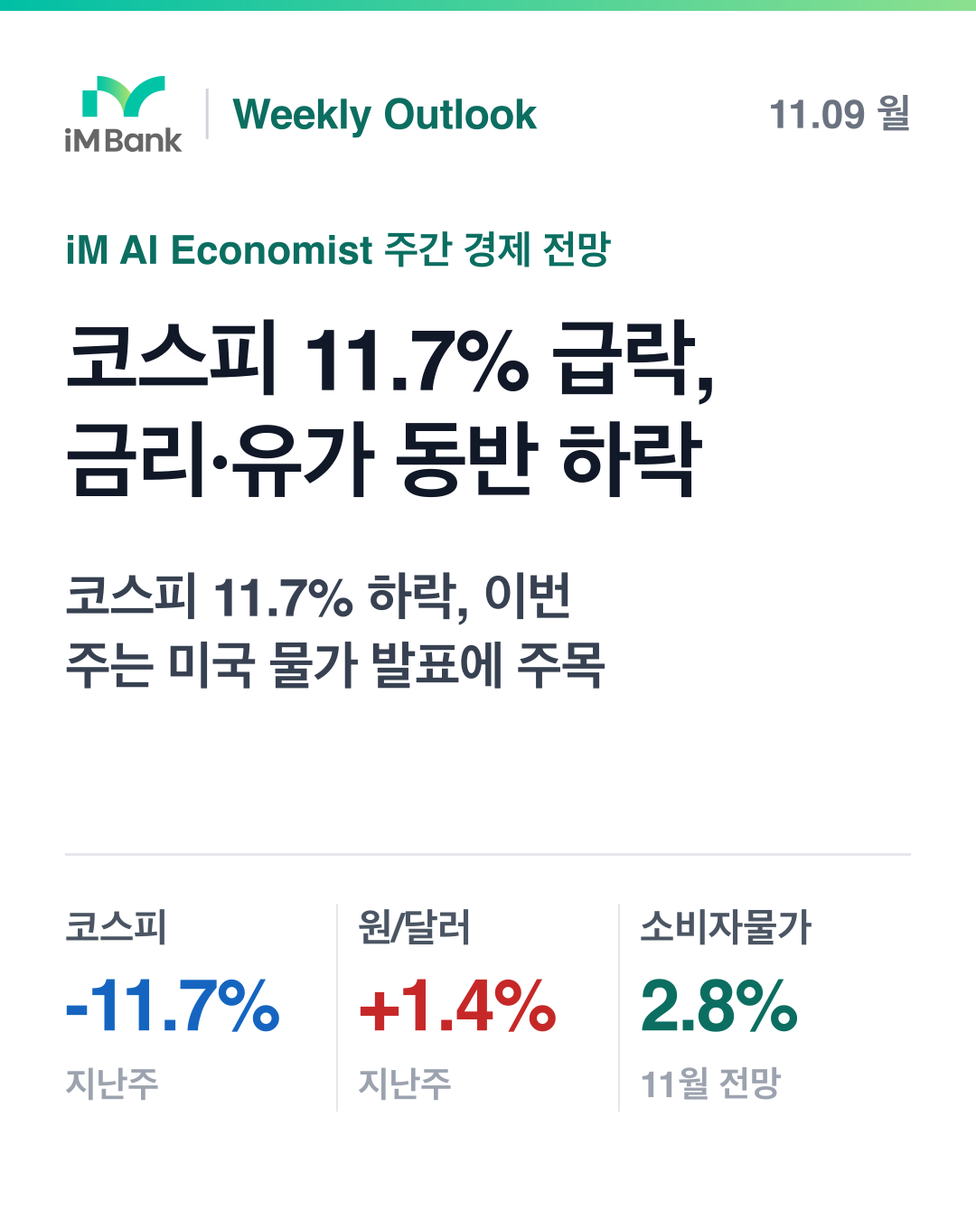
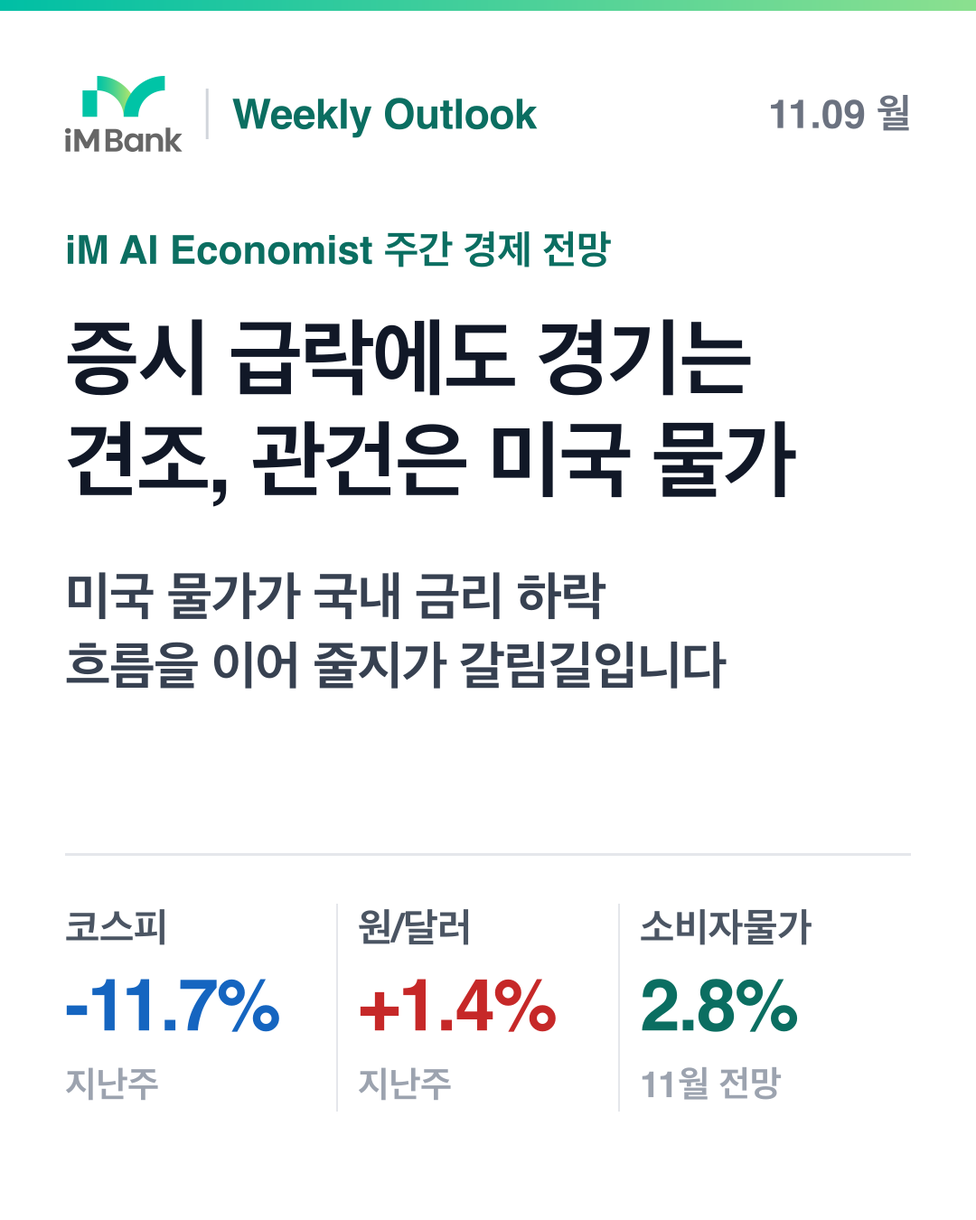
preview: 주간 전망 드라이런 갱신(제목 규칙 변경)
Claude-Session: https://claude.ai/code/session_01VBBXT8zS9TT6j7sAH1a9k2

Changed region(s): [[0.0611, 0.2489, 0.825, 0.4044], [0.0611, 0.4667, 0.7639, 0.5911]]

diff --git a/public/weekly-reports/2026-11-09.html b/public/weekly-reports/2026-11-09.html
@@ -3,17 +3,17 @@
 <head>
 <meta charset="UTF-8">
 <meta name="viewport" content="width=device-width, initial-scale=1.0">
-<title>코스피 11.7% 급락, 금리·유가 동반 하락 - iM AI Economist Weekly</title>
-<meta property="og:title" content="코스피 11.7% 급락, 금리·유가 동반 하락">
-<meta property="og:description" content="11월 2일(월)~11월 6일(금) 국내 주가가 10% 넘게 내리는 동안 국고채 금리와 유가는 내리고 원/달러 환율과 금값은 올랐습니다. 11월 10일(화) 미국 소비자물가와 11월 11일(수) 국내 고용동향이 금리와 환율의 방향을 가늠할 주요 일정입니다.">
+<title>증시 급락에도 경기는 견조, 관건은 미국 물가 - iM AI Economist Weekly</title>
+<meta property="og:title" content="증시 급락에도 경기는 견조, 관건은 미국 물가">
+<meta property="og:description" content="국내 증시가 크게 내린 사이 국내외 금리와 유가는 하락하고 금과 원/달러 환율은 올랐습니다. 11월 10일(화) 미국 소비자물가와 11월 11일(수) 국내 고용동향이 금리와 경기 판단의 핵심 확인 지점입니다.">
 <meta property="og:site_name" content="iM뱅크">
 <meta property="og:type" content="article">
 <meta property="og:image" content="https://dailyreport-eta.vercel.app/weekly-reports/2026-11-09-preview.png">
 <meta property="og:image:width" content="1080">
 <meta property="og:image:height" content="1350">
 <meta name="twitter:card" content="summary_large_image">
-<meta name="twitter:title" content="코스피 11.7% 급락, 금리·유가 동반 하락">
-<meta name="twitter:description" content="11월 2일(월)~11월 6일(금) 국내 주가가 10% 넘게 내리는 동안 국고채 금리와 유가는 내리고 원/달러 환율과 금값은 올랐습니다. 11월 10일(화) 미국 소비자물가와 11월 11일(수) 국내 고용동향이 금리와 환율의 방향을 가늠할 주요 일정입니다.">
+<meta name="twitter:title" content="증시 급락에도 경기는 견조, 관건은 미국 물가">
+<meta name="twitter:description" content="국내 증시가 크게 내린 사이 국내외 금리와 유가는 하락하고 금과 원/달러 환율은 올랐습니다. 11월 10일(화) 미국 소비자물가와 11월 11일(수) 국내 고용동향이 금리와 경기 판단의 핵심 확인 지점입니다.">
 <meta name="twitter:image" content="https://dailyreport-eta.vercel.app/weekly-reports/2026-11-09-preview.png">
 <style>
 /* iM AI Market Report — Standardized Template CSS */
@@ -552,15 +552,15 @@
     </header>
 
     <section class="title-block" data-section="title">
-        <h1 class="cover-headline">코스피 11.7% 급락, 금리·유가 동반 하락</h1>
-        <p class="cover-subline">지난주 코스피와 코스닥이 각각 11.7%, 11.1% 내렸습니다. 같은 기간 국고채 금리와 브렌트유도 크게 내렸고, 원/달러 환율과 금값은 올랐습니다.</p>
+        <h1 class="cover-headline">증시 급락에도 경기는 견조, 관건은 미국 물가</h1>
+        <p class="cover-subline">지난주 코스피가 11.7% 내렸지만 2026년 3분기 실질 GDP 성장률은 1.0%, 2026년 9월 산업생산 증가율은 5.0%로 실물 지표는 탄탄했습니다. 국내 금리와 유가가 함께 내려간 가운데, 이번 주 미국 소비자물가가 이 흐름을 이어 갈지 가를 변수입니다.</p>
     </section>
 
     <section class="summary-box" data-section="summary" aria-label="세 줄 요약">
         <ul class="summary-list">
-            <li class="summary-row"><span class="summary-label">지난주</span><span class="summary-text">11월 2일(월)~11월 6일(금) 국내 주가가 10% 넘게 내리는 동안 국고채 금리와 유가는 내리고 원/달러 환율과 금값은 올랐습니다.</span></li>
-            <li class="summary-row"><span class="summary-label">이번 주</span><span class="summary-text">11월 10일(화) 미국 소비자물가와 11월 11일(수) 국내 고용동향이 금리와 환율의 방향을 가늠할 주요 일정입니다.</span></li>
-            <li class="summary-row"><span class="summary-label">전망</span><span class="summary-text">모형 전망으로는 국내 소비자물가 상승률이 2026년 11월에 중앙값 2.8%(68% 구간 2.4~3.2%)로, 지금과 비슷한 수준이 이어질 것으로 보입니다.</span></li>
+            <li class="summary-row"><span class="summary-label">지난주</span><span class="summary-text">국내 증시가 크게 내린 사이 국내외 금리와 유가는 하락하고 금과 원/달러 환율은 올랐습니다.</span></li>
+            <li class="summary-row"><span class="summary-label">이번 주</span><span class="summary-text">11월 10일(화) 미국 소비자물가와 11월 11일(수) 국내 고용동향이 금리와 경기 판단의 핵심 확인 지점입니다.</span></li>
+            <li class="summary-row"><span class="summary-label">전망</span><span class="summary-text">iM뱅크 모형 전망으로 국내 소비자물가 상승률은 2026년 11월 중앙값 2.8%(68% 구간 2.4~3.2%)로 지금 수준 부근에 머물 것으로 보입니다.</span></li>
         </ul>
     </section>
 
@@ -625,10 +625,10 @@
         </div>
         <p class="wk-note">종가 기준, 직전 주 마지막 거래일 대비. 금리는 bp(0.01%p) 단위 변화입니다.</p>
         <div class="narrative">
-                <p>지난주 국내 주식시장은 크게 내렸습니다. 코스피는 11.7% 하락한 5,059.69, 코스닥은 11.1% 하락한 644.27로 한 주를 마쳤습니다. 미국 시장도 내렸지만 폭은 작았습니다. S&amp;P 500은 2.7% 내린 7,376.86, 나스닥은 3.4% 내린 24,579.43이었습니다. 국내 주가의 낙폭이 미국보다 훨씬 컸다는 점이 이번 주의 특징입니다.</p>
-                <p>주가가 내리는 동안 채권 금리도 함께 내렸습니다. 국고채 3년 금리는 10bp 내린 3.61%, 국고채 10년 금리는 15bp 내린 3.85%였습니다. bp(베이시스포인트)는 금리 변화를 재는 단위로, 1bp는 0.01%p입니다. 미국 국채 10년 금리도 7bp 내린 4.86%였습니다. 같은 기간 금값은 4.5% 오른 4,074.9달러였습니다. 주가가 내리고 국채 금리가 내리며 금값이 오르는 조합은, 시장이 위험을 줄이는 쪽으로 움직일 때 흔히 나타나는 모습과 닮았습니다.</p>
-                <p>원자재와 환율은 엇갈렸습니다. 브렌트유는 16.4% 내린 98.32달러로 큰 폭 하락했습니다. 반면 원/달러 환율은 1.4% 오른 1,356.3원, 달러인덱스(주요 통화 대비 달러 가치)는 0.4% 오른 102.30이었습니다. 달러 강세보다 원화 약세 폭이 더 컸습니다. 유가 하락은 물가 부담을 덜어 주는 방향이지만, 원화 약세는 수입 가격을 높이는 방향이어서 두 흐름이 서로 일부를 상쇄하는 구도입니다.</p>
-                <p>최근 발표된 지표를 보면 국내 경기는 생산과 수출 쪽에서 힘이 붙었습니다. 2026년 3분기 실질 GDP 성장률(전기비)은 1.0%로 2분기 0.6%보다 높았고, 2026년 9월 산업생산 증가율은 5.0%로 8월 3.1%에서 올라갔습니다. 2026년 10월 수출금액지수 증가율은 107.6%였습니다. 다만 앞으로의 경기를 미리 보여 주는 선행지수 순환변동치는 2026년 9월 104.1로 8월 104.2에서 소폭 내렸습니다. 물가는 2026년 10월 소비자물가 상승률(전년동월비, 1년 전 같은 달과 비교한 변화율)이 2.8%로 9월 2.9%보다 낮아졌습니다. 한국은행 기준금리는 3.00%로 그대로였습니다. 반면 미국은 2026년 10월 소비자물가 상승률이 3.9%로 9월 3.7%보다 높아졌고, 정책금리(실효, 월평균)도 3.88%로 9월 3.75%보다 올랐습니다.</p>
+                <p>지난주(11월 2일(월)~11월 6일(금)) 국내 증시는 큰 폭으로 내렸습니다. 코스피는 11.7% 하락한 5,059.69, 코스닥은 11.1% 하락한 644.27로 마감했습니다. 미국도 S&amp;P 500이 2.7%, 나스닥이 3.4% 내렸지만, 하락 폭은 국내가 훨씬 컸습니다.</p>
+                <p>주식이 약할 때 채권과 금은 반대로 움직였습니다. 국고채 3년 금리는 10bp(1bp는 0.01%p) 내린 3.61%, 국고채 10년 금리는 15bp 내린 3.85%였습니다. 미국 국채 10년 금리도 7bp 내린 4.86%였고, 금값은 4.5% 올라 4,074.9달러가 됐습니다. 위험자산에서 안전자산 쪽으로 가격이 함께 움직인 모습입니다.</p>
+                <p>환율과 유가도 크게 움직였습니다. 원/달러 환율은 1.4% 올라 1,356.3원이 됐습니다. 같은 기간 달러인덱스(주요 통화 대비 달러 가치)는 0.4% 오른 102.30으로, 달러 강세보다 원화 약세가 더 두드러졌습니다. 브렌트유는 16.4% 내린 98.32달러였습니다. 유가와 금리가 함께 내려간 조합은 물가 부담이 줄어드는 방향과 맞아떨어집니다.</p>
+                <p>실물 지표는 시장과 달리 견조했습니다. 2026년 3분기 실질 GDP 성장률은 1.0%로 2026년 2분기 0.6%보다 높았고, 2026년 9월 산업생산 증가율(전년동월비, 1년 전 같은 달과 비교한 변화율)은 5.0%로 8월 3.1%에서 올랐습니다. 2026년 10월 수출금액지수 증가율은 107.6%로 9월 89.4%보다 높았습니다. 다만 경기 방향을 앞서 보여 주는 선행지수 순환변동치는 104.1로 직전 104.2에서 소폭 낮아졌습니다. 국내 소비자물가 상승률은 2026년 10월 2.8%로 9월 2.9%보다 낮아졌고, 한국은행 기준금리는 3.00%로 유지됐습니다. 반면 미국 소비자물가 상승률은 2026년 10월 3.9%로 9월 3.7%보다 높아졌고, 미국 정책금리(실효, 월평균)도 3.88%로 9월 3.75%에서 올라 한미 간 물가 흐름이 엇갈렸습니다.</p>
         </div>
     </section>
 
@@ -669,23 +669,23 @@
         <h2 class="section-title">이번 주 볼 것 (11월 9일(월)~11월 13일(금))</h2>
             <div class="watch-card">
                 <div class="watch-badge">11월 10일(화) 22:30</div>
-                <div class="watch-title">미국 소비자물가(CPI)</div>
-                <div class="watch-desc">한국시간 22:30 발표입니다. 최근 확인된 미국 물가 상승률은 2026년 10월 3.9%로 9월 3.7%보다 높아졌는데, 이번 발표가 이 오름세를 이어가는지에 따라 지난주 내린 미국과 한국의 금리 흐름이 달라질 수 있습니다.</div>
+                <div class="watch-title">미국 소비자물가(CPI) 22:30</div>
+                <div class="watch-desc">최근 확인된 미국 소비자물가 상승률은 2026년 10월 3.9%로 9월 3.7%보다 높아졌습니다. 이번 발표에서 상승 흐름이 이어지는지에 따라 지난주 내려간 미국 국채 10년 금리(4.86%)의 방향이 달라질 수 있어 확인해 볼 만합니다.</div>
             </div>
             <div class="watch-card">
                 <div class="watch-badge">11월 11일(수) 08:00</div>
-                <div class="watch-title">국내 고용동향(2026년 10월)</div>
-                <div class="watch-desc">한국시간 08:00 발표입니다. 생산과 GDP 지표는 개선됐지만 선행지수는 소폭 내렸는데, 고용이 어느 쪽 흐름에 가까운지 확인해 볼 만합니다.</div>
+                <div class="watch-title">국내 고용동향(10월) 08:00</div>
+                <div class="watch-desc">3분기 성장률과 9월 산업생산이 개선된 만큼, 생산·수출의 회복이 일자리로 이어지고 있는지 볼 지점입니다. 고용이 함께 받쳐 준다면 실물 경기가 견조하다는 판단에 힘이 실립니다.</div>
             </div>
             <div class="watch-card">
                 <div class="watch-badge">11월 13일(금) 06:00</div>
-                <div class="watch-title">국내 수출입물가지수(2026년 10월)</div>
-                <div class="watch-desc">한국시간 06:00 발표입니다. 수입물가는 소비자물가에 앞서 움직이는 경향이 있어, 유가 하락과 원화 약세 가운데 어느 쪽이 더 크게 반영됐는지 살펴볼 수 있습니다.</div>
+                <div class="watch-title">수출입물가지수(10월) 06:00</div>
+                <div class="watch-desc">수입물가는 소비자물가에 앞서 움직이는 경향이 있어 2026년 10월 소비자물가 2.8%의 흐름과 맞춰 볼 만합니다. 지난주 브렌트유 하락은 시점상 이번 10월 지표보다 이후 지표에서 확인될 가능성이 큽니다.</div>
             </div>
             <div class="watch-card">
                 <div class="watch-badge">11월 13일(금) 06:00</div>
-                <div class="watch-title">미국 생산자물가(PPI)</div>
-                <div class="watch-desc">한국시간 22:30 발표입니다. 기업이 받는 가격 흐름을 보여 주는 지표로, 11월 10일(화) 소비자물가와 같은 방향인지 함께 비교해 보면 미국 물가의 흐름을 더 분명히 읽을 수 있습니다.</div>
+                <div class="watch-title">미국 생산자물가(PPI) 22:30</div>
+                <div class="watch-desc">기업 단계의 물가로, 화요일 소비자물가와 같은 방향인지 비교해 볼 만합니다. 두 지표가 함께 높게 나오면 미국 물가 부담에 대한 판단이 더 분명해집니다.</div>
             </div>
     </section>
     <details class="more" data-section="calendar">
@@ -708,7 +708,7 @@
     <section class="section" data-section="outlook">
         <h2 class="section-title">AI Economist 전망</h2>
         <div class="narrative">
-            <p>iM뱅크 AI Economist의 모형 전망으로 국내 소비자물가 상승률은 2026년 11월 중앙값 2.8%(68% 구간 2.4~3.2%), 2026년 12월 2.8%(68% 구간 2.2~3.4%), 2027년 1월 2.8%(68% 구간 2.0~3.5%)입니다. 68% 구간은 모형상 실제 값이 들어갈 가능성이 68%인 범위로, 먼 달일수록 구간이 넓어집니다. 이 모형은 과거 검증에서 직전 값을 그대로 쓰는 단순 예측보다 평균 오차가 10% 작았습니다.</p></div>
+            <p>iM뱅크 모형 전망에 따르면 국내 소비자물가 상승률 중앙값은 2026년 11월 2.8%(68% 구간 2.4~3.2%), 2026년 12월 2.8%(68% 구간 2.2~3.4%), 2027년 1월 2.8%(68% 구간 2.0~3.5%)입니다. 68% 구간은 모형상 실제 값이 들어갈 가능성이 68%인 범위로, 시간이 갈수록 넓어집니다. 이 모형은 과거 검증에서 직전 값을 그대로 쓰는 단순 예측보다 평균 오차가 10% 작았습니다.</p></div>
         <h3 class="wk-h3">소비자물가 상승률(전년동월비)</h3>
         <svg class="wk-fan" viewBox="0 0 680 250" role="img" aria-label="소비자물가 상승률(전년동월비) 실적과 모형 전망(중앙값, 68%·90% 구간)">
 <line x1="44" x2="664" y1="191.0" y2="191.0" stroke="#EEF2F7"/><text x="38" y="195.0" text-anchor="end" font-size="11" fill="#9CA3AF">1.7</text><line x1="44" x2="664" y1="141.0" y2="141.0" stroke="#EEF2F7"/><text x="38" y="145.0" text-anchor="end" font-size="11" fill="#9CA3AF">2.4</text><line x1="44" x2="664" y1="91.0" y2="91.0" stroke="#EEF2F7"/><text x="38" y="95.0" text-anchor="end" font-size="11" fill="#9CA3AF">3.1</text><line x1="44" x2="664" y1="41.0" y2="41.0" stroke="#EEF2F7"/><text x="38" y="45.0" text-anchor="end" font-size="11" fill="#9CA3AF">3.9</text>
@@ -730,10 +730,10 @@
         </table>
         <h3 class="wk-h3">시나리오: 유가 ±20%</h3>
         <div class="narrative">
-            <p>유가가 기준 경로보다 20% 높거나 낮은 상태가 6개월 이어진다고 가정한 시나리오에서, 2027년 5월 소비자물가 상승률은 유가 +20%일 때 +0.3%p, 유가 -20%일 때 -0.3%p 달라지는 것으로 나왔습니다. 지난주 브렌트유가 16.4% 내린 만큼, 이 하락이 이어진다면 물가를 낮추는 방향으로 작용할 수 있다는 점을 참고할 만합니다.</p></div>
+            <p>유가 ±20% 시나리오에서 유가가 20% 높은 경로라면 6개월 뒤인 2027년 5월 소비자물가 상승률이 +0.3%p, 20% 낮은 경로라면 -0.3%p 달라지는 것으로 나타났습니다. 지난주 브렌트유가 16.4% 내린 것은 하락 쪽 방향이지만, 이 수준이 유지될지는 앞으로 확인이 필요합니다.</p></div>
         <h3 class="wk-h3">미국 정책금리 0.25%p 인상의 과거 평균적 파급</h3>
         <div class="narrative">
-            <p>과거 평균적 관계에 따르면 미국 정책금리 0.25%p 인상 뒤 6개월 시점에 국고채 3년 금리는 중앙값 +12bp(68% 구간 7~19bp), 한국은행 기준금리는 중앙값 +26bp(68% 구간 22~31bp) 움직였습니다. 이는 과거 평균에서 나온 관계일 뿐, 이번에도 같은 결과가 나온다는 뜻은 아닙니다.</p></div>
+            <p>과거 평균적 관계에 따르면 미국 정책금리 0.25%p 인상 뒤 6개월 시점에 국고채 3년 금리는 +12bp(68% 구간 7~19bp), 한국은행 기준금리는 +26bp(68% 구간 22~31bp) 움직이는 경향이 있었습니다. 이는 과거 평균에서 나온 경향일 뿐, 이번에도 같은 방향과 크기로 나타난다고 단정할 수는 없습니다.</p></div>
         <table class="wk-table">
             <thead><tr><th>변수</th><th style="text-align:right">중앙값</th><th style="text-align:right">68% 구간</th></tr></thead>
             <tbody>
@@ -741,34 +741,34 @@
                 <tr><td>한국은행 기준금리<div class="wk-sub">6개월 뒤</div></td><td class="num"><strong>+26bp</strong></td><td class="num">22~31bp</td></tr>
             </tbody>
         </table>
-        <p class="wk-note">모형 전망은 과거 데이터의 관계를 바탕으로 하므로 예상치 못한 사건은 반영하지 못합니다. 산업생산 증가율, 국고채 3년 금리(월평균), 원/달러 환율(월평균)은 과거 검증에서 단순 예측(직전 값 유지)보다 정확하지 않아 전망치를 싣지 않았습니다. 미국 금리 충격의 파급에서 원/달러 환율은 추정된 반응의 방향이 경제적 예상과 반대이거나 불확실해(타당성 점검 탈락) 결과를 싣지 않았습니다.</p>
+        <p class="wk-note">모형은 과거 관계를 바탕으로 하므로 지난주처럼 시장이 크게 흔들리는 국면이나 예상 밖 사건은 충분히 반영하지 못할 수 있습니다. 산업생산 증가율(전년동월비), 국고채 3년 금리(월평균), 원/달러 환율(월평균)은 과거 검증에서 단순 예측(직전 값 유지)보다 정확하지 않음에 해당해 전망치를 싣지 않았습니다. 미국 금리 충격의 파급에서 원/달러 환율은 추정된 반응의 방향이 경제적 예상과 반대이거나 불확실함(타당성 점검 탈락)에 해당해 제외했습니다.</p>
     </section>
 
     <section class="section" data-section="risks">
         <h2 class="section-title">이번 주 리스크 점검</h2>
             <div class="sowhat-card">
-                <div class="sowhat-title">미국 물가 오름세가 이어지는 경우</div>
-                <p class="wk-risk-row"><span class="wk-risk-label">확인되면</span>11월 10일(화) 미국 소비자물가가 2026년 10월 3.9%보다 더 높게 나온다면, 지난주 내렸던 미국과 한국의 국채 금리가 다시 오를 수 있는지 살펴볼 필요가 있습니다. 대출 금리를 생각하고 계시다면 금리 흐름을 한 번 더 확인해 볼 만합니다.</p>
-                <p class="wk-risk-row"><span class="wk-risk-label">어긋나면</span>물가 오름세가 멈춘다면 지난주 이어진 금리 하락 흐름이 유지되는지, 원/달러 환율이 안정되는지를 함께 확인해 볼 만합니다.</p>
+                <div class="sowhat-title">미국 물가 상승 흐름 지속</div>
+                <p class="wk-risk-row"><span class="wk-risk-label">확인되면</span>미국 소비자물가가 계속 높아지면 지난주 내려간 미국 금리가 되돌려질 수 있고, 과거 평균적 관계를 감안하면 국내 금리 하락 흐름에도 부담이 될 수 있습니다.</p>
+                <p class="wk-risk-row"><span class="wk-risk-label">어긋나면</span>미국 물가 상승이 주춤하면 국내외 금리의 하향 흐름이 이어질 여지가 커지고, 대출 금리 부담에 대한 우려도 덜해질 수 있습니다.</p>
             </div>
             <div class="sowhat-card">
-                <div class="sowhat-title">유가 하락이 이어지는 경우</div>
-                <p class="wk-risk-row"><span class="wk-risk-label">확인되면</span>브렌트유 약세가 이어진다면, 모형 시나리오상 유가 하락은 국내 소비자물가를 낮추는 방향이어서 물가가 모형 전망 구간의 아래쪽에 가까워질 수 있습니다.</p>
-                <p class="wk-risk-row"><span class="wk-risk-label">어긋나면</span>유가가 다시 오른다면 물가 부담이 커지는 쪽으로 바뀔 수 있어, 11월 13일(금) 수출입물가지수에서 수입물가 흐름을 확인해 볼 만합니다.</p>
+                <div class="sowhat-title">유가 하락의 지속 여부</div>
+                <p class="wk-risk-row"><span class="wk-risk-label">확인되면</span>유가가 낮은 수준에 머물면 시나리오의 하락 쪽 경로처럼 국내 물가 상승률을 낮추는 쪽으로 작용할 수 있습니다.</p>
+                <p class="wk-risk-row"><span class="wk-risk-label">어긋나면</span>유가가 다시 오르면 모형 전망의 68% 구간 상단 쪽 물가 경로를 염두에 둘 필요가 커집니다.</p>
             </div>
             <div class="sowhat-card">
-                <div class="sowhat-title">원화 약세가 이어지는 경우</div>
-                <p class="wk-risk-row"><span class="wk-risk-label">확인되면</span>원/달러 환율이 1,356.3원보다 더 오른다면 유가 하락에 따른 수입물가 하락 효과가 줄어들 수 있습니다.</p>
-                <p class="wk-risk-row"><span class="wk-risk-label">어긋나면</span>원화가 안정된다면 유가 하락이 물가 부담을 덜어 주는 효과가 더 분명하게 나타날 수 있습니다.</p>
+                <div class="sowhat-title">증시 변동성과 원화 약세</div>
+                <p class="wk-risk-row"><span class="wk-risk-label">확인되면</span>주가 약세와 원화 약세가 이어지면 수입물가를 통해 물가에 부담이 될 수 있어 수출입물가지수를 함께 확인해 볼 만합니다.</p>
+                <p class="wk-risk-row"><span class="wk-risk-label">어긋나면</span>시장이 안정을 찾으면 성장률·산업생산·수출 등 견조한 실물 지표가 경기 판단의 중심으로 다시 부각될 수 있습니다.</p>
             </div>
     </section>
 
     <section class="data-basis" data-section="method">
-        <p class="source-note"><strong>작성 방법</strong> 시장 수치는 각 시장의 종가, 경제지표는 공식 발표값입니다. 전망은 2004년 이후 국내외 월간 지표로 추정한 베이지안 벡터자기회귀(BVAR) 모형의 결과이며, 과거 검증에서 단순 예측보다 정확했던 지표만 싣습니다. 문장은 AI가 이 수치들만 인용해 작성했습니다. 데이터는 2026-11-13 11:57(UTC)에 수집했습니다.</p>
+        <p class="source-note"><strong>작성 방법</strong> 시장 수치는 각 시장의 종가, 경제지표는 공식 발표값입니다. 전망은 2004년 이후 국내외 월간 지표로 추정한 베이지안 벡터자기회귀(BVAR) 모형의 결과이며, 과거 검증에서 단순 예측보다 정확했던 지표만 싣습니다. 문장은 AI가 이 수치들만 인용해 작성했습니다. 데이터는 2026-11-13 12:24(UTC)에 수집했습니다.</p>
     </section>
 
     <footer class="report-footer" data-section="footer">
-        <div class="closing">이번 주에는 하루하루의 등락보다 미국과 한국의 물가 숫자가 지난주 금리 흐름을 이어 줄지를 차분히 확인해 보시기 바랍니다.</div>
+        <div class="closing">이번 주는 주가의 흔들림보다 물가와 금리가 어느 쪽으로 방향을 잡는지를 차분히 확인해 보는 한 주가 될 것입니다.</div>
         <div class="copyright">© iM뱅크 | Powered by iM AI Economist | 데이터 출처: 한국은행 ECOS, FRED, Yahoo Finance, 미 연준</div>
         <div class="legal-notice">
             <div class="legal-title">투자 유의사항 및 법적 고지</div>
